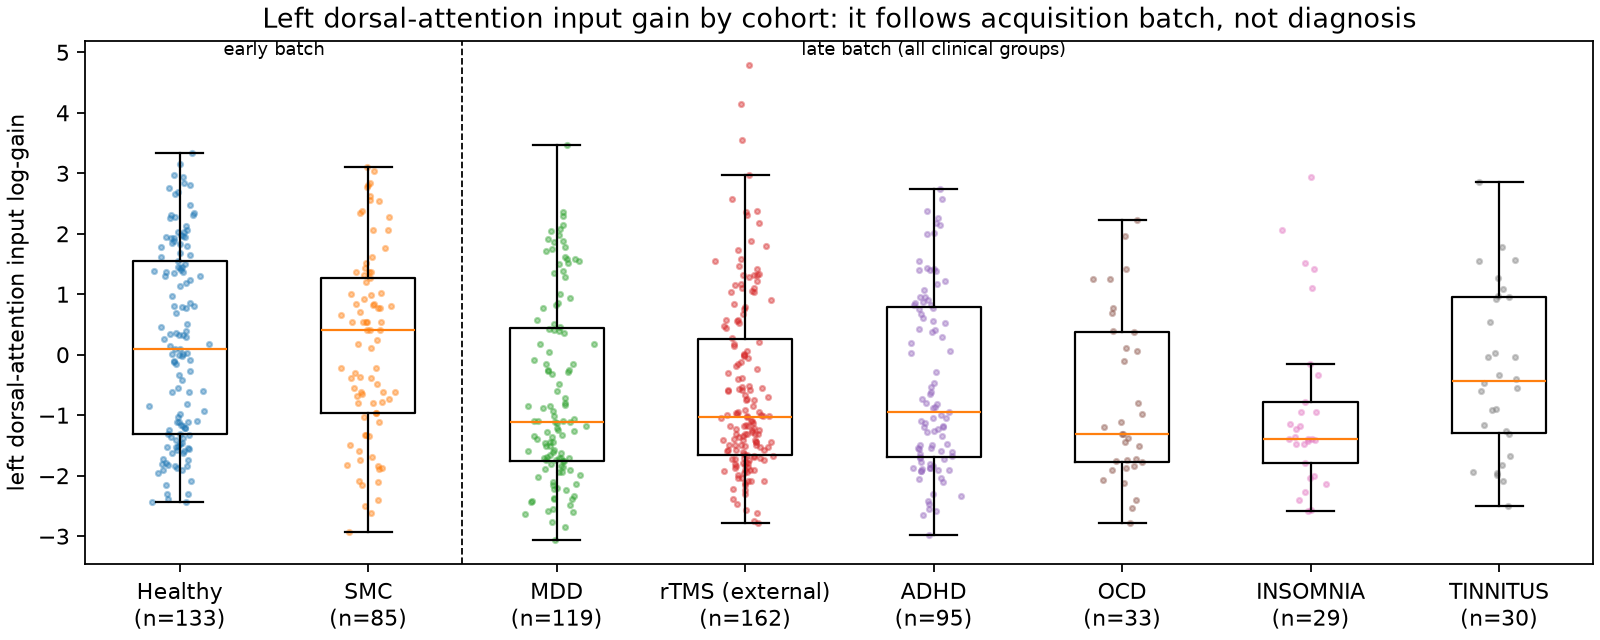
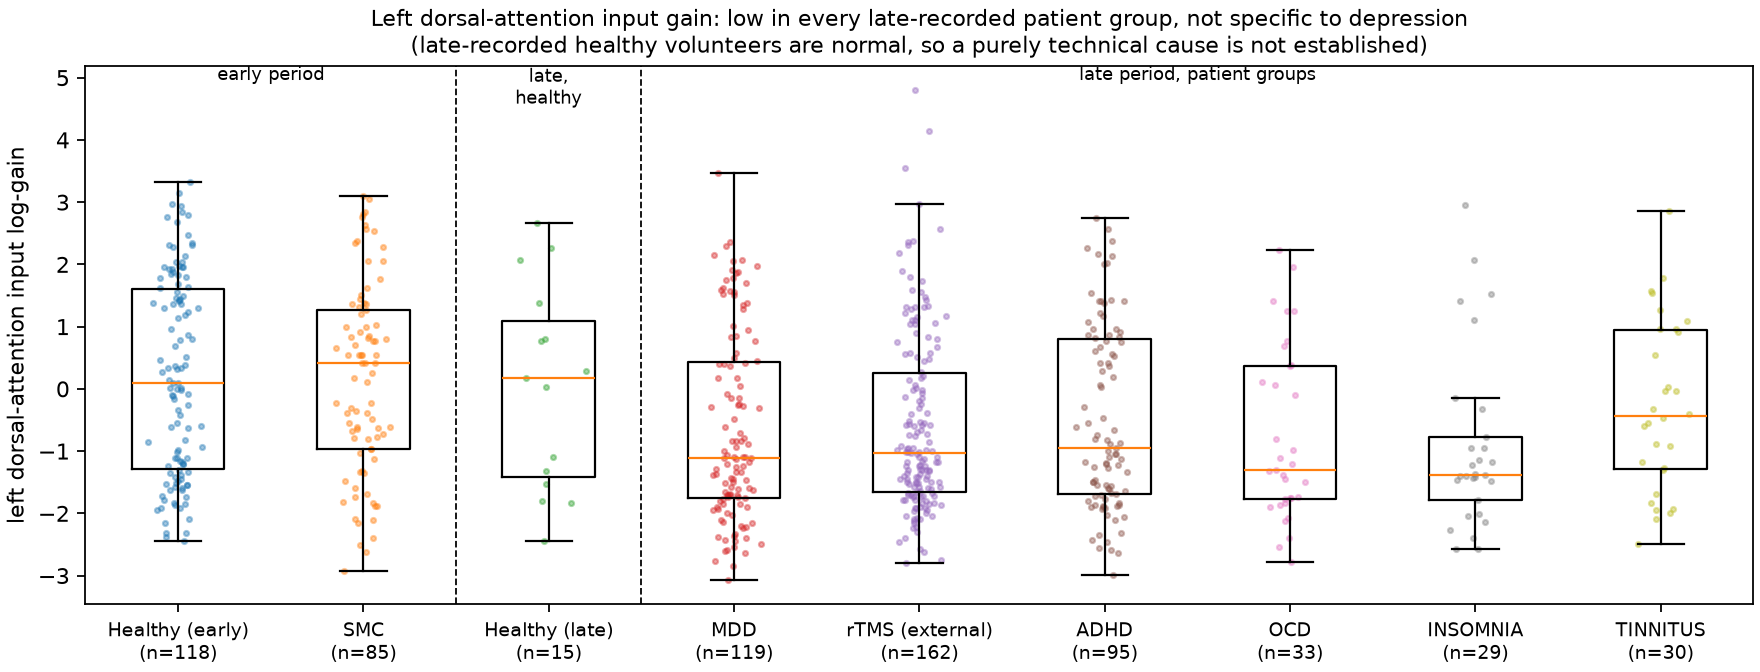
Correct over-stated batch-artefact claims (not depression-specific; cause undecided); corrected dorsal-attention figure; wide figures for slides

diff --git a/scripts/m54/disorders_analysis.py b/scripts/m54/disorders_analysis.py
@@ -305,6 +305,68 @@ def fig_maps(x, csd_val, csd_pred, freq, labels):
     NUMBERS["maps"] = stats
 
 
+def fig_maps_wide(x, csd_val, csd_pred, freq, labels, band="alpha"):
+    """Slide version: disorders as columns, measured / predicted as rows."""
+    import mne
+    info = mne.create_info(labels, 500.0, "eeg")
+    info.set_montage(mne.channels.make_standard_montage("standard_1005"), match_case=False)
+    key = BANDS[band]
+    ids, V = feature_matrix(x, csd_val, key, freq, labels)
+    _, P = feature_matrix(x, csd_pred, key, freq, labels)
+    d = x.loc[ids]
+    cov = d[["age", "sex"]].fillna(d[["age", "sex"]].mean()).to_numpy()
+    V, P = residualise(V, cov), residualise(P, cov)
+    g = d.group.to_numpy()
+    maps = {dis: (V[g == dis].mean(0) - V[g == "Healthy"].mean(0), P[g == dis].mean(0) - P[g == "Healthy"].mean(0),
+                  ttest_ind(V[g == dis], V[g == "Healthy"], axis=0)[1]) for dis in DISORDERS}
+    lim = max(max(np.abs(a).max(), np.abs(b).max()) for a, b, _ in maps.values())
+    fig, axes = plt.subplots(2, len(DISORDERS), figsize=(2.15 * len(DISORDERS), 5.0), layout="constrained")
+    for c, dis in enumerate(DISORDERS):
+        mv, mp, pv = maps[dis]
+        for r, m in enumerate((mv, mp)):
+            im, _ = mne.viz.plot_topomap(m, info, axes=axes[r, c], show=False, cmap="RdBu_r", vlim=(-lim, lim),
+                                         contours=0, sensors=True, mask=(pv < 0.05) if r == 0 else None,
+                                         mask_params=dict(marker="o", markerfacecolor="k", markersize=3))
+        axes[0, c].set_title(dis, color=COLORS[dis], fontsize=12)
+        axes[1, c].set_xlabel(f"r = {np.corrcoef(mv, mp)[0, 1]:+.2f}", fontsize=10.5)
+    axes[0, 0].set_ylabel("measured", fontsize=12)
+    axes[1, 0].set_ylabel("M5.4", fontsize=12)
+    fig.colorbar(im, ax=axes, shrink=0.75, label="Δ centred log power")
+    fig.savefig(FIG / f"maps_{band}_wide.png")
+    plt.close(fig)
+
+
+def fig_spectra_wide(x, csd_val, csd_pred, freq, labels, regions=("occipital", "central")):
+    """Slide version: disorders as columns, two channel regions as rows."""
+    ids = [s for s in x.index if s in csd_val]
+    d = x.loc[ids]
+    g = d.group.to_numpy()
+    cov = d[["age", "sex"]].fillna(d[["age", "sex"]].mean()).to_numpy()
+    fig, axes = plt.subplots(len(regions), len(DISORDERS), figsize=(2.25 * len(DISORDERS), 2.6 * len(regions)),
+                             sharex=True, sharey="row", layout="constrained")
+    for r, rname in enumerate(regions):
+        chans = REGIONS[rname]
+        V = residualise(np.stack([rel_log_spectrum(csd_val[s], labels, chans) for s in ids]), cov)
+        P = residualise(np.stack([rel_log_spectrum(csd_pred[s], labels, chans) for s in ids]), cov)
+        for c, dis in enumerate(DISORDERS):
+            ax = axes[r, c]
+            a, b = V[g == dis], V[g == "Healthy"]
+            m = a.mean(0) - b.mean(0)
+            se = np.sqrt(a.var(0, ddof=1) / len(a) + b.var(0, ddof=1) / len(b))
+            ax.fill_between(freq, m - 1.96 * se, m + 1.96 * se, color=COLORS[dis], alpha=0.18, lw=0)
+            ax.plot(freq, m, color=COLORS[dis], lw=2)
+            ax.plot(freq, P[g == dis].mean(0) - P[g == "Healthy"].mean(0), color=INK, lw=1.4, ls="--")
+            ax.axhline(0, color=MUTED, lw=0.7)
+            if r == 0:
+                ax.set_title(dis, color=COLORS[dis], fontsize=12)
+            if c == 0:
+                ax.set_ylabel(f"{rname}\nΔ log10 rel. power", fontsize=10.5)
+            if r == len(regions) - 1:
+                ax.set_xlabel("Hz")
+    fig.savefig(FIG / "spectra_differences_wide.png")
+    plt.close(fig)
+
+
 def rel_log_spectrum(csd, labels, chans):
     pw = np.maximum(np.real(np.einsum("fii->fi", csd)), 1e-30)
     pw = pw / pw.sum(0, keepdims=True)
@@ -465,6 +527,11 @@ def fig_classification(x, csd_val, freq, labels):
 
 def main():
     x, bl, csd_val, csd_pred, freq, labels = load()
+    if "--slides" in sys.argv:  # only the wide slide figures
+        for band in ("alpha", "beta"):
+            fig_maps_wide(x, csd_val, csd_pred, freq, labels, band)
+        fig_spectra_wide(x, csd_val, csd_pred, freq, labels)
+        return
     NUMBERS["groups"] = {g: {"n": int((x.group == g).sum()), "age_mean": float(x.loc[x.group == g, "age"].mean()),
                              "sex_mean_code": float(x.loc[x.group == g, "sex"].mean())} for g in ORDER}
     print(json.dumps(NUMBERS["groups"], indent=1))

diff --git a/scripts/m54/make_next_steps_figures.py b/scripts/m54/make_next_steps_figures.py
@@ -109,19 +109,31 @@ def fig_dorsattn(extra=None):
                  ROOT / "outputs/m54_smc/results/ctrl_smc_bem_m10pop/subject_fits.csv"):
         if ctrl.is_file():
             frames.append(pd.read_csv(ctrl)[["group", p]])
-    x = pd.concat(frames)
-    order = [g for g in ["Healthy", "SMC", "MDD", "rTMS (external)", "ADHD", "OCD", "INSOMNIA", "TINNITUS"] if g in set(x.group)]
-    fig, ax = plt.subplots(figsize=(10, 4), constrained_layout=True)
+    x = pd.concat(frames).reset_index(drop=True)
+    ids = pd.concat([pd.read_csv(ROOT / "outputs/m54b_kaggle_bem/results/dev_bem_m10pop/subject_fits.csv")[["subject_id"]],
+                     pd.read_csv(ROOT / "outputs/m54b_kaggle_bem/results/ext_bem_m10pop/subject_fits.csv")[["subject_id"]]]
+                    + [pd.read_csv(c)[["subject_id"]] for c in (ROOT / "outputs/m54_ctrl/results/ctrl_bem_m10pop/subject_fits.csv",
+                                                                ROOT / "outputs/m54_smc/results/ctrl_smc_bem_m10pop/subject_fits.csv")
+                       if c.is_file()]).subject_id.reset_index(drop=True)
+    late = ids.str[4:].astype(float) >= 88000000
+    x.loc[(x.group == "Healthy") & late.to_numpy(), "group"] = "Healthy (late)"
+    x.loc[x.group == "Healthy", "group"] = "Healthy (early)"
+    order = [g for g in ["Healthy (early)", "SMC", "Healthy (late)", "MDD", "rTMS (external)", "ADHD", "OCD", "INSOMNIA",
+                         "TINNITUS"] if g in set(x.group)]
+    fig, ax = plt.subplots(figsize=(11, 4.2), constrained_layout=True)
     data = [x[x.group == g][p].to_numpy() for g in order]
     ax.boxplot(data, showfliers=False)
-    ax.set_xticks(range(1, len(order) + 1), [f"{g}\n(n={len(v)})" for g, v in zip(order, data)])
+    ax.set_xticks(range(1, len(order) + 1), [f"{g}\n(n={len(v)})" for g, v in zip(order, data)], fontsize=8.5)
     for i, v in enumerate(data, start=1):
         ax.scatter(np.random.default_rng(i).normal(i, 0.06, len(v)), v, s=5, alpha=0.4)
     ax.set_ylabel("left dorsal-attention input log-gain")
     ax.axvline(2.5, color="k", ls="--", lw=0.8)
-    ax.text(1.5, ax.get_ylim()[1], "early batch", ha="center", va="top", fontsize=8)
-    ax.text(5.0, ax.get_ylim()[1], "late batch (all clinical groups)", ha="center", va="top", fontsize=8)
-    ax.set_title("Left dorsal-attention input gain by cohort: it follows acquisition batch, not diagnosis")
+    ax.axvline(3.5, color="k", ls="--", lw=0.8)
+    ax.text(1.5, ax.get_ylim()[1], "early period", ha="center", va="top", fontsize=8)
+    ax.text(3.0, ax.get_ylim()[1], "late,\nhealthy", ha="center", va="top", fontsize=8)
+    ax.text(6.5, ax.get_ylim()[1], "late period, patient groups", ha="center", va="top", fontsize=8)
+    ax.set_title("Left dorsal-attention input gain: low in every late-recorded patient group, not specific to depression\n"
+                 "(late-recorded healthy volunteers are normal, so a purely technical cause is not established)", fontsize=10)
     fig.savefig(OUT / "dorsattn_left_by_group.png", dpi=160)
     plt.close(fig)
 

diff --git a/docs/PROJECT_STATUS_2026-09-27.md b/docs/PROJECT_STATUS_2026-09-27.md
@@ -1,5 +1,8 @@
 # MDD–TVB: where the project stands
 
+> **Correction (2026-10-13).** This report calls the TDBRAIN Healthy-vs-patient differences an "acquisition-batch artefact". That was over-stated. The evidence for a technical cause rested on one early-recorded clinical group (subjective memory complaints: older, non-psychiatric). The 15 healthy volunteers recorded in the late period look like the early ones (−0.09 SD, p = 0.71). The recording metadata are identical across periods. What holds: the differences are **not depression-specific**: they are shared by all late-recorded patient groups (MDD, OCD, insomnia, ADHD). Whether they are technical or a general patient feature cannot be decided with TDBRAIN. Where this report says "batch effect", read "difference between late-recorded patients and early-recorded healthy/SMC subjects". See `docs/DISORDERS_2026-10.md`.
+
+
 **Date:** 2026-09-27 · **Branch:** `claude/audit-linear-regime` (all work committed and pushed; `main` untouched)
 · **Detailed reports:** `INDEPENDENT_AUDIT_2026-09-24.md`, `NEXT_STEPS_REPORT_2026-09-25.md`,
 `BETA_AND_NEW_DATASETS_2026-09-27.md`. A glossary of the technical terms is at the end (§9).
@@ -19,7 +22,8 @@ later use the fitted models to design TMS treatment.
 - tested on data never used for development, including three other laboratories' EEG systems.
 
 **The scientific question it was pointed at does not have a positive answer in the available data:**
-- The Healthy-vs-MDD contrast in TDBRAIN is mostly a recording-batch artefact.
+- The Healthy-vs-MDD differences in TDBRAIN are shared by all late-recorded patient groups, so they are not
+  depression-specific (technical or general patient feature: undecided; see the correction above).
 - Across four independent sources, no EEG feature or model parameter separates depressed from healthy people
   consistently.
 - Nothing measured from resting EEG predicts who responds to rTMS; only age and baseline severity do.
@@ -79,7 +83,7 @@ connectivity. This became **M5.3**, which beat M5.1 on its own metric (total 0.7
 | **Scored the models on plain, interpretable quantities** (spectrum, band maps, coherence) instead of the M5.1 feature space | **M5.1 and M5.3 predicted individual spectra and spatial coherence worse than the population average** (coherence 4–12× worse); the earlier "good fit" was a property of the old objective |
 | **New objective (M5.4):** a proper statistical likelihood of the whole cross-spectrum (complex-Wishart/Whittle), muscle-prone channels excluded above 20 Hz, non-identifiable parameters fixed or tied, Laplace posteriors | final form: BEM head model, 10 spatial modes, plus the empirical population spectrum as a background term. See §4 |
 | **rTMS response prediction** (pre-registered) | only clinical variables predict (AUC 0.67); EEG markers and model parameters do not (§4.5) |
-| **Specificity check** of the one "robust" group difference | it is an acquisition-batch artefact (§4.4) |
+| **Specificity check** of the one "robust" group difference | not depression-specific: equal in OCD, insomnia, ADHD (§4.4) |
 
 ### Phase D — latest (2026-09-26/27)
 - Figures of the fitted signals (spectra, scalp maps, coherence, EEG traces; added by another session).
@@ -91,7 +95,7 @@ connectivity. This became **M5.3**, which beat M5.1 on its own metric (total 0.7
 ## 4. What we now know
 
 ### 4.1 Data
-- **TDBRAIN has an acquisition-batch confound.** Nearly all Healthy volunteers were recorded in an early batch
+- **TDBRAIN confounds diagnosis with recording period.** Nearly all Healthy volunteers were recorded in an early batch
   (subject ID < 88000000), and every clinical group later. Features and parameters step at that boundary regardless
   of diagnosis (details in §4.4).
 - **Muscle activity** contaminates 20–40 Hz at lateral channels (Fp1/Fp2/F7/F8/T7/T8) in most recordings. The new
@@ -152,10 +156,11 @@ scored on the re-cleaned data. The whole-cross-spectrum deviance exists only for
 ### 4.4 The Healthy-vs-MDD signal
 - **In TDBRAIN, the only robust parameter difference is an artefact.** Lower left dorsal-attention input in MDD
   (−0.51 SD, Holm p = 0.001) appeared in every model version. It is equally present in late-batch OCD, insomnia and
-  ADHD patients, and absent in early-batch memory-complaint patients. Batch explains it (+0.42 SD, p = 0.001);
+  ADHD patients, and absent in early-batch memory-complaint patients. A recording-period term absorbs it (+0.42 SD, p = 0.001), but that term rests on the memory-complaint group, and late-recorded healthy volunteers do not show the effect (−0.09 SD);
   depression does not (−0.04, p = 0.63).
-- **At the data level, most TDBRAIN Healthy–MDD EEG differences are batch.** Alpha/beta topography and zero-lag
-  coherence reproduce the batch difference (r = 0.72–0.90). This was estimated without any depressed subject, and
+- **At the data level, most TDBRAIN Healthy–MDD EEG differences are shared with non-depressed patients.** Alpha/beta
+  topography and zero-lag coherence reproduce the difference between non-depressed late patients and early
+  healthy/SMC subjects (r = 0.72–0.90). This was estimated without any depressed subject, and
   none of it replicates in the external datasets.
 - **One difference is real but not depression-specific: lagged alpha coherency.**
   - It separates *patients* from healthy people in TDBRAIN within the same batch, and in two independent clinical MDD
@@ -196,7 +201,7 @@ which suggests they were recorded differently. Its large group differences shoul
 
 | # | Problem | Evidence | Status / fix |
 |---|---|---|---|
-| 1 | **No valid disease contrast in TDBRAIN** | batch step explains the group differences (§4.4) | use batch-matched comparisons or external data; needs **larger matched data** (EMBARC) |
+| 1 | **No valid disease contrast in TDBRAIN** | group differences are shared by all late-recorded patient groups (§4.4) | use batch-matched comparisons or external data; needs **larger matched data** (EMBARC) |
 | 2 | **Samples too small for the effects that exist** | external effects ≈ 0.2–0.3 SD; about 110 MDD pooled | EMBARC (≈ 300 MDD + controls, same sites) |
 | 3 | **Model lacks narrow rhythms other than alpha** (beta, frontal theta) and non-sinusoidal alpha | two beta experiments: posterior = prior; theta worse than average everywhere | new component: resonators with free peak width (damped oscillators or a corticothalamic loop) plus a waveform term |
 | 4 | **Heavy reliance on the population template** (62 % of power) | decomposition, ablation | shrinks only if (3) is solved |
@@ -216,8 +221,8 @@ which suggests they were recorded differently. Its large group differences shoul
 | The feature objective measured real fit | direct spectral scoring | ruled out: it hid 4–12× coherence errors |
 | Neural parameters don't matter under the likelihood | freeze-neural ablation | ruled out: they improve fit for 99.6 % of subjects |
 | TVB lead field is as good as BEM | likelihood comparison | ruled out: BEM better for 82 % |
-| Left dorsal-attention deficit is a depression marker | specificity (4 clinical groups) and early-batch SMC | ruled out: acquisition batch |
-| TDBRAIN Healthy–MDD EEG differences are depression effects | batch effect estimated without depressed subjects; external datasets | mostly ruled out: batch; lagged alpha is clinical but not depression-specific |
+| Left dorsal-attention deficit is a depression marker | specificity (4 clinical groups) and early-batch SMC | ruled out: not depression-specific (cause undecided) |
+| TDBRAIN Healthy–MDD EEG differences are depression effects | difference estimated without depressed subjects; external datasets | mostly ruled out: shared with other patients; lagged alpha is clinical but not depression-specific |
 | Freeing the beta generator fixes beta | refit and recovery | ruled out: posterior = prior |
 | A sensorimotor-specific beta generator fixes beta | refit and recovery | ruled out: no change on real data |
 | Model or EEG features predict rTMS response | pre-registered nested CV, permutation | ruled out at this sample size |

diff --git a/docs/WRITEUP_2026-10.md b/docs/WRITEUP_2026-10.md
@@ -33,11 +33,13 @@ disorders such as major depressive disorder (MDD). Most published fits, however:
 - **Fit and inference.** The final model (M5.4) predicts unseen data better than the population average in 99% of
   TDBRAIN subjects (median deviance ratio 0.84; same-subject ceiling 0.69). It transfers unchanged to three other EEG
   systems (0.86–0.87). Its parameters are recoverable (median r = 0.88), calibrated, and reliable (ICC 0.76–0.94).
-- **Depression.** The Healthy-vs-MDD contrast in TDBRAIN is dominated by an acquisition-batch confound. No model
+- **Depression.** The Healthy-vs-MDD differences in TDBRAIN are shared by every late-recorded patient group (MDD,
+  OCD, insomnia, ADHD), so they are not depression-specific. Whether they are technical (patients were recorded later
+  than most volunteers) or a general patient feature cannot be decided. No model
   parameter separated depressed from control participants consistently across datasets. Nothing from resting EEG
   predicted rTMS response; only age and severity did (AUC 0.67).
 - **Eyes-open change.** A within-person contrast, the change in visual-network drive when the eyes open:
-  - removes much of the batch effect;
+  - is less dominated by the shared patient-vs-volunteer difference;
   - differs with depressive symptoms in the batch-free data (pooled −0.36 SD, p = 0.013);
   - is not depression-specific among TDBRAIN patients.
 - **Thalamic loop.** A per-person corticothalamic delay tracked individual alpha frequency in all seven cohorts and
@@ -247,7 +249,8 @@ The population fit chose a loop delay of 87 ms (Robinson's range), and cortico-c
 **T2 on all seven cohorts:**
 - The per-person delay correlates with individual alpha frequency in every dataset (ρ −0.19 to −0.56; 6 of 7
   significant).
-- In TDBRAIN it rises with age (+0.16 SD per decade, p = 10⁻¹⁰), with no batch or depression effect.
+- In TDBRAIN it rises with age (+0.16 SD per decade, p = 10⁻¹⁰), with no recording-period, patient or depression
+  effect.
 - The fit gain holds within TDBRAIN's system but not on the other systems.
 
 **Shared nuclei (S1/S2; development cohort, 252 subjects; `mddtvb-m54s-shared`).**
@@ -291,12 +294,20 @@ genuinely stable states. The reported fits are therefore all stable and, if anyt
 
 ### 4.6 Depression
 
-**1. TDBRAIN's Healthy-vs-MDD contrast is an acquisition-batch artefact.**
-- Healthy volunteers were recorded in an early era and patients later.
-- The one robust parameter difference (left dorsal-attention gain, −0.51 SD) is equally present in late-era OCD,
-  insomnia and ADHD patients, and absent in early-era memory-complaint patients. Batch explains it (+0.42 SD,
-  p = 0.001); depression does not (−0.04, p = 0.63).
-- Most data-level Healthy–MDD differences reproduce the batch pattern (r = 0.72–0.90).
+**1. TDBRAIN's Healthy-vs-MDD differences are not depression-specific.**
+- Most healthy volunteers were recorded in an early period, and patients later.
+- The one robust parameter difference (left dorsal-attention gain, −0.51 SD) is equally present in OCD, insomnia and
+  ADHD patients (−0.47 to −0.67 SD). Depressed and non-depressed patients do not differ (depression term −0.04,
+  p = 0.63).
+- Whether it is technical or a general patient feature is undecided:
+  - A regression term for recording period absorbs it (+0.42 SD), but that term is driven by the early-recorded SMC
+    group (older, non-psychiatric).
+  - The 15 late-recorded healthy volunteers look like the early ones (−0.09 SD, p = 0.71).
+  - The recording metadata are identical across periods.
+- Most data-level Healthy–MDD differences are the same as the difference between other, non-depressed patients and
+  the early healthy/SMC subjects (pattern r = 0.72–0.90).
+- The full analysis across all disorders is in `docs/DISORDERS_2026-10.md`. Most clinical groups share one
+  parameter, map and connectivity profile vs Healthy, and nothing is specific to depression.
 
 **2. Across the batch-free datasets, no parameter is consistent.** The best candidate (inhibitory time scale) is
 heterogeneous: +1.23, +0.48, −0.01 and +0.04 SD (I² = 0.82).
@@ -305,8 +316,9 @@ heterogeneous: +1.23, +0.48, −0.01 and +0.04 SD (I² = 0.82).
 depressed patients from other patients, and is absent in unmedicated high-BDI students.
 
 **4. Within-person eyes-open change.**
-- At the data level, the eyes-closed/eyes-open contrast halves the batch effect: alpha +0.34 → +0.11 SD; the
-  correlation of depression and batch patterns falls from 0.91 to 0.55 (alpha) and from 0.89 to 0.0 (beta).
+- At the data level, the eyes-closed/eyes-open contrast roughly halves the recording-period term: alpha +0.34 →
+  +0.11 SD.
+- Its depression pattern resembles the non-depressed-patient pattern less: r 0.91 → 0.55 (alpha), 0.89 → 0.0 (beta).
 - In the joint fit, the best-predicting change (75% of subjects) was in visual-network drive:
 
 | Contrast | Left | Right |
@@ -362,7 +374,8 @@ So the parameters carry biological information.
 
 ### What did not work, and why
 - **No depression signal.**
-  - In TDBRAIN the disease contrast is confounded by acquisition era.
+  - In TDBRAIN the disease contrast is confounded with recording period, and its differences are shared by all
+    patient groups.
   - In the batch-free datasets the effects are small (≈ 0.2–0.4 SD) at small sample sizes (≈ 110 depressed pooled).
   - What does replicate tends to separate patients from healthy controls rather than depression from other
     conditions.
@@ -379,8 +392,8 @@ So the parameters carry biological information.
   unseen data, and rarely check batch structure.
 - **Literature on depression:** the depression literature's non-replication (Widge 2019) is mirrored here at the
   level of model parameters.
-- **Batch-robust design:** within-person contrasts, used by Rowe 2004 and Hartoyo 2020 for alpha blocking, were the
-  most batch-robust quantities we found.
+- **Within-person contrasts:** used by Rowe 2004 and Hartoyo 2020 for alpha blocking, they were the quantities
+  least dominated by the shared patient-vs-volunteer difference.
 - **Thalamus:** the corticothalamic delay result agrees with Robinson and van Albada's work. Shared thalamic nuclei
   (COALIA; Müller 2023) are motivated by the loss of coherence with private loops.
 
@@ -433,7 +446,8 @@ So the parameters carry biological information.
 | Report | Content |
 |---|---|
 | `INDEPENDENT_AUDIT_2026-09-24.md` | why the original fits failed; analytic stable-regime model |
-| `NEXT_STEPS_REPORT_2026-09-25.md` | external test, v2 cleaning, M5.4 likelihood, rTMS, batch confound |
+| `NEXT_STEPS_REPORT_2026-09-25.md` | external test, v2 cleaning, M5.4 likelihood, rTMS, specificity (batch wording corrected) |
+| `DISORDERS_2026-10.md` | M5.4 across all TDBRAIN disorders: shared patient profile, nothing depression-specific |
 | `BETA_AND_NEW_DATASETS_2026-09-27.md` | beta origin, three batch-free datasets |
 | `LITERATURE_REST_AND_EVOKED_2026-09-27.md` | literature on model fits and evoked responses |
 | `EOEC_THALAMUS_EVOKED_2026-09-29.md` | joint EO/EC, corticothalamic loops, evoked responses |

diff --git a/docs/EOEC_THALAMUS_EVOKED_2026-09-29.md b/docs/EOEC_THALAMUS_EVOKED_2026-09-29.md
@@ -1,5 +1,8 @@
 # Eyes open + eyes closed, a thalamic loop, and evoked responses (2026-09-29)
 
+> **Correction (2026-10-13).** This report calls the TDBRAIN Healthy-vs-patient differences an "acquisition-batch artefact". That was over-stated. The evidence for a technical cause rested on one early-recorded clinical group (subjective memory complaints: older, non-psychiatric). The 15 healthy volunteers recorded in the late period look like the early ones (−0.09 SD, p = 0.71). The recording metadata are identical across periods. What holds: the differences are **not depression-specific**: they are shared by all late-recorded patient groups (MDD, OCD, insomnia, ADHD). Whether they are technical or a general patient feature cannot be decided with TDBRAIN. Where this report says "batch effect", read "difference between late-recorded patients and early-recorded healthy/SMC subjects". See `docs/DISORDERS_2026-10.md`.
+
+
 This report covers the three steps chosen after the literature review
 (`docs/LITERATURE_REST_AND_EVOKED_2026-09-27.md`):
 
@@ -20,7 +23,7 @@ This report covers the three steps chosen after the literature review
 | 3 | Does a person's resting network predict their **evoked** responses? | **No.** Own network ≈ other people's ≈ population (R² 0.30 vs 0.29; 0.18 vs 0.18; p ≥ 0.36). The reward positivity is clear in the data (1.45 µV, t = 4.2), slightly smaller with high BDI (d = −0.21, n.s.). The model's frontal input does not capture the reward difference. |
 
 One-line reading:
-- The within-person contrast was the right idea for removing batch effects.
+- The within-person contrast was the right idea for reducing the shared patient-vs-volunteer difference.
 - The thalamus makes a better and more interpretable resting model, but not a beta generator.
 - The resting parameters carry no individual information about evoked responses.
 - The depression signal is the familiar one: present in single-system data, not specific among patients.
@@ -46,7 +49,7 @@ analysis: early era + clinical + depression + age + sex.
 | Beta reactivity | +0.18, p = 0.16 | −0.10, p = 0.27 | −0.017*** | −0.005 |
 | Whole spectrum (pattern) | — | — | — | 0.74 → 0.53 (reactivity) |
 
-The contrast removes about half or more of the batch effect. It carries a small
+The contrast removes about half or more of the recording-period term. It carries a small
 depression effect, and a clear age effect (reactivity declines with age).
 
 ### 1b. Age as a positive control (`scripts/m54/age_control.py`; existing eyes-closed fits)
@@ -205,7 +208,7 @@ What the loop can and cannot do:
 - **TDBRAIN decomposition of the delay:**
   - batch −0.05, clinical +0.03, depression +0.04 (all n.s.);
   - age +0.16 SD per decade (p = 10⁻¹⁰).
-- **Loop gain** carries batch (+0.29, p = 0.02) and clinical status (+0.36,
+- **Loop gain** carries a recording-period term (+0.29, p = 0.02) and clinical status (+0.36,
   p = 0.007), but no depression effect.
 - **Depression contrasts on the delay:** MODMA MDD vs HC +0.60 SD (p = 0.03),
   Mumtaz +0.13, ds003478 −0.14. They are inconsistent, so there is no depression

diff --git a/docs/PRIMER_HOW_THE_PROJECT_WORKS.md b/docs/PRIMER_HOW_THE_PROJECT_WORKS.md
@@ -1,5 +1,8 @@
 # How the MDD–TVB project works: a plain-language primer
 
+> **Correction (2026-10-13).** This report calls the TDBRAIN Healthy-vs-patient differences an "acquisition-batch artefact". That was over-stated. The evidence for a technical cause rested on one early-recorded clinical group (subjective memory complaints: older, non-psychiatric). The 15 healthy volunteers recorded in the late period look like the early ones (−0.09 SD, p = 0.71). The recording metadata are identical across periods. What holds: the differences are **not depression-specific**: they are shared by all late-recorded patient groups (MDD, OCD, insomnia, ADHD). Whether they are technical or a general patient feature cannot be decided with TDBRAIN. Where this report says "batch effect", read "difference between late-recorded patients and early-recorded healthy/SMC subjects". See `docs/DISORDERS_2026-10.md`.
+
+
 **Companion to** `notebooks/learn_01_spectral_model_fitting.ipynb`. The notebook shows each idea working on real
 data; this primer explains the ideas in words. Each section names the notebook section (§) and the slides where the idea
 appears. "progress_v2" means the current deck; "v2-o" means the saved full version `slides/progress_v2-o.pptx`.
@@ -226,7 +229,8 @@ model**, not DCM itself (notebook §14).
 
 The machinery now works: a fast, exact, certified-stable model; a proper likelihood; knobs that are recoverable, repeatable and
 honestly uncertain; and it transfers to three other laboratories' EEG systems. The scientific question has no positive answer
-in these data. TDBRAIN's healthy-vs-depressed contrast is mostly a recording-batch effect. Across four independent sources no EEG
+in these data. TDBRAIN's healthy-vs-depressed differences are shared by all late-recorded patient groups (not
+depression-specific; technical or general patient feature: undecided). Across four independent sources no EEG
 feature or knob separates depressed from healthy people consistently, and nothing in resting EEG predicts rTMS response beyond
 age and severity. The model also lacks individual beta, frontal theta and non-sinusoidal alpha, which need a new model component.
 Details: `docs/PROJECT_STATUS_2026-09-27.md`.

diff --git a/docs/NEXT_STEPS_REPORT_2026-09-25.md b/docs/NEXT_STEPS_REPORT_2026-09-25.md
@@ -1,5 +1,8 @@
 # Next steps carried out: external test, re-cleaned EEG, likelihood objective, rTMS outcomes
 
+> **Correction (2026-10-13).** This report calls the TDBRAIN Healthy-vs-patient differences an "acquisition-batch artefact". That was over-stated. The evidence for a technical cause rested on one early-recorded clinical group (subjective memory complaints: older, non-psychiatric). The 15 healthy volunteers recorded in the late period look like the early ones (−0.09 SD, p = 0.71). The recording metadata are identical across periods. What holds: the differences are **not depression-specific**: they are shared by all late-recorded patient groups (MDD, OCD, insomnia, ADHD). Whether they are technical or a general patient feature cannot be decided with TDBRAIN. Where this report says "batch effect", read "difference between late-recorded patients and early-recorded healthy/SMC subjects". See `docs/DISORDERS_2026-10.md`.
+
+
 **Date:** 2026-09-25 · **Follows:** `docs/INDEPENDENT_AUDIT_2026-09-24.md` (the audit) · **Branch:**
 `claude/audit-linear-regime`
 

diff --git a/docs/BETA_AND_NEW_DATASETS_2026-09-27.md b/docs/BETA_AND_NEW_DATASETS_2026-09-27.md
@@ -1,5 +1,8 @@
 # Beta and three batch-free depression datasets
 
+> **Correction (2026-10-13).** This report calls the TDBRAIN Healthy-vs-patient differences an "acquisition-batch artefact". That was over-stated. The evidence for a technical cause rested on one early-recorded clinical group (subjective memory complaints: older, non-psychiatric). The 15 healthy volunteers recorded in the late period look like the early ones (−0.09 SD, p = 0.71). The recording metadata are identical across periods. What holds: the differences are **not depression-specific**: they are shared by all late-recorded patient groups (MDD, OCD, insomnia, ADHD). Whether they are technical or a general patient feature cannot be decided with TDBRAIN. Where this report says "batch effect", read "difference between late-recorded patients and early-recorded healthy/SMC subjects". See `docs/DISORDERS_2026-10.md`.
+
+
 **Date:** 2026-09-27 · **Follows:** `docs/NEXT_STEPS_REPORT_2026-09-25.md` · **Branch:** `claude/audit-linear-regime`
 
 Two questions from the last round:

diff --git a/README.md b/README.md
@@ -45,8 +45,9 @@ connectivity group effect.
   population background. It beats the population average in development and externally, and its parameters are
   identifiable, reliable and calibrated.
 - **rTMS response:** no EEG or model feature predicts it (pre-specified); only age and baseline severity do.
-- **Batch confound:** TDBRAIN's Healthy-vs-MDD contrast is confounded by acquisition batch. The "robust" parameter
-  difference and most Healthy–MDD EEG differences reproduce a batch effect estimated without depressed subjects.
+- **Not depression-specific:** TDBRAIN's Healthy-vs-MDD contrast is confounded with recording period. The "robust"
+  parameter difference and most Healthy–MDD EEG differences are shared by all late-recorded patient groups (OCD,
+  insomnia, ADHD); whether technical or a general patient feature is undecided (`docs/DISORDERS_2026-10.md`).
 
 ## Scientific definition
 
